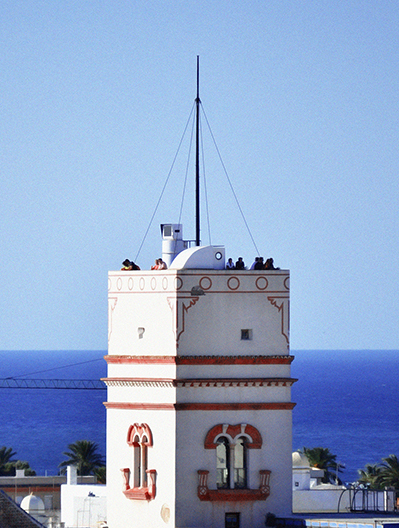
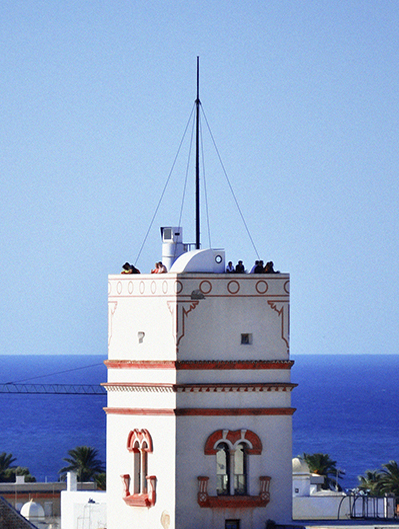
tamaño imagenes

diff --git a/src/torres.html b/src/torres.html
@@ -171,8 +171,8 @@
                                     19vw" type="image/jpg">
 
                                 <img src="assets/images/torres-2-708w.jpg" loading="lazy"
-                                    alt="Torre mirador blanca calada, con una garita en la parte superior." width="708"
-                                    height="939">
+                                    alt="Torre mirador blanca calada, con una garita en la parte superior." width="501"
+                                    height="668">
                             </picture>
 
                         </div>
@@ -213,7 +213,7 @@
                                     19vw" type="image/jpg">
 
                                 <img src="assets/images/torres-3-708w.jpg" loading="lazy"
-                                    alt="Torre mirador de tonos ocres, con forma de Sillón." width="708" height="939">
+                                    alt="Torre mirador de tonos ocres, con forma de Sillón." width="501" height="668">
                             </picture>
 
                         </div>
@@ -254,8 +254,8 @@
                                     19vw" type="image/jpg">
 
                                 <img src="assets/images/torres-6-708w.jpg" loading="lazy"
-                                    alt="Torre mirador Tavira, una de las más famosas de Cádiz." width="708"
-                                    height="939">
+                                    alt="Torre mirador Tavira, una de las más famosas de Cádiz." width="501"
+                                    height="668">
                             </picture>
 
                         </div>
@@ -295,8 +295,8 @@
                                     19vw" type="image/jpg">
 
                                 <img src="assets/images/torres-4-708w.jpg" loading="lazy"
-                                    alt="Dos torres mirador mixtas, una blanca y una de tonos ocres." width="708"
-                                    height="939">
+                                    alt="Dos torres mirador mixtas, una blanca y una de tonos ocres." width="501"
+                                    height="668">
                             </picture>
 
                         </div>

diff --git a/src/habla.html b/src/habla.html
@@ -517,7 +517,7 @@
                                     33vw" type="image/jpg">
 
                                     <img src="assets/images/torres-1-708w.jpg" loading="lazy"
-                                        alt="Parte superior de una torre vista desde abajo.">
+                                        alt="Parte superior de una torre vista desde abajo." width="708" height="939">
                                 </picture>
                                 Las torres
                             </div>
@@ -552,7 +552,8 @@
                                     33vw" type="image/jpg">
 
                                     <img src="assets/images/ritmo-3-708w.jpg" loading="lazy"
-                                        alt="Busto de Paco Alba, una figura del carnaval de Cádiz, con una gaviota encima.">
+                                        alt="Busto de Paco Alba, una figura del carnaval de Cádiz, con una gaviota encima."
+                                        width="708" height="939">
                                 </picture>
                                 El ritmo
                             </div>
